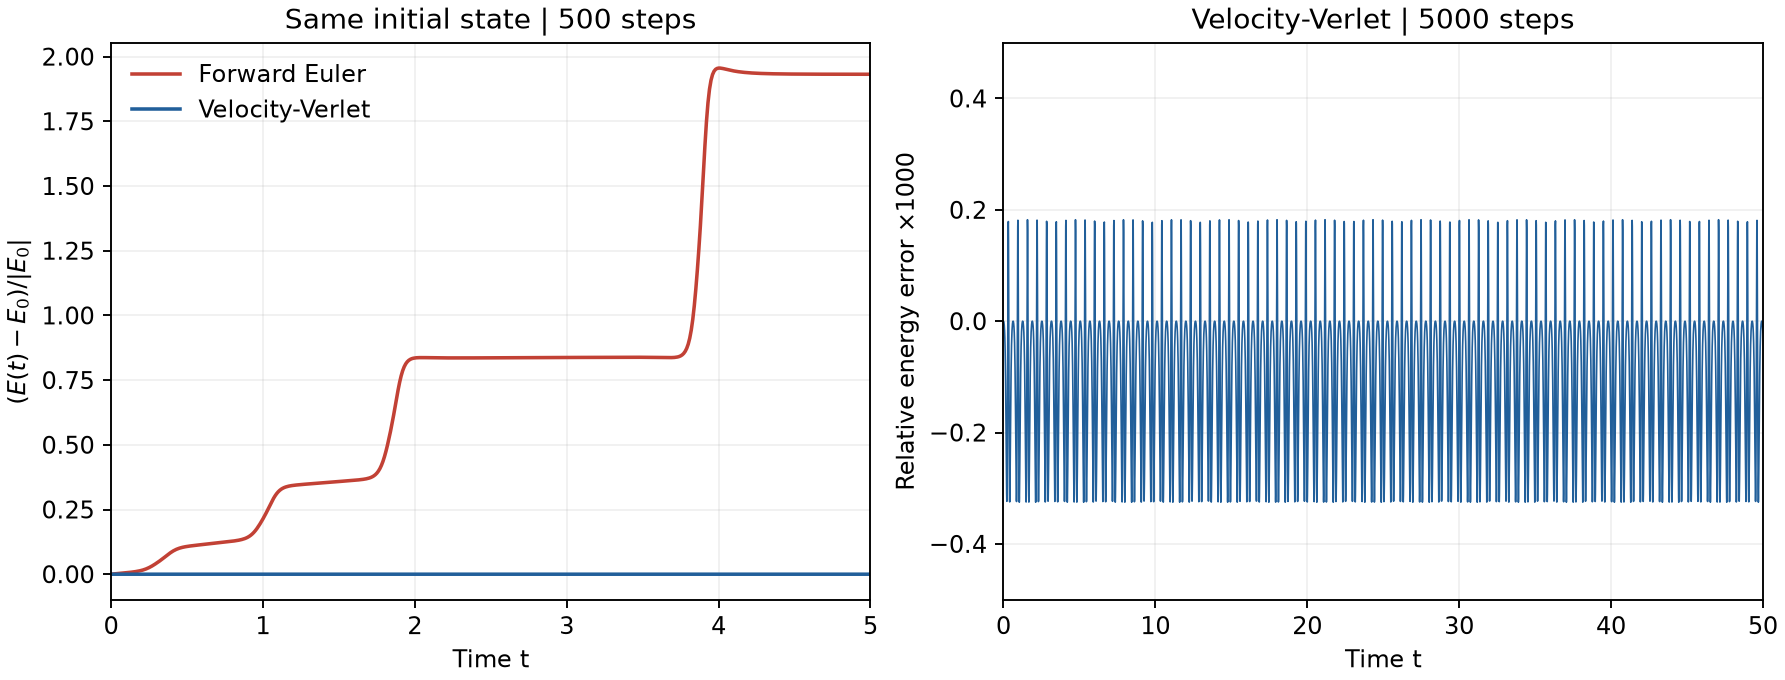
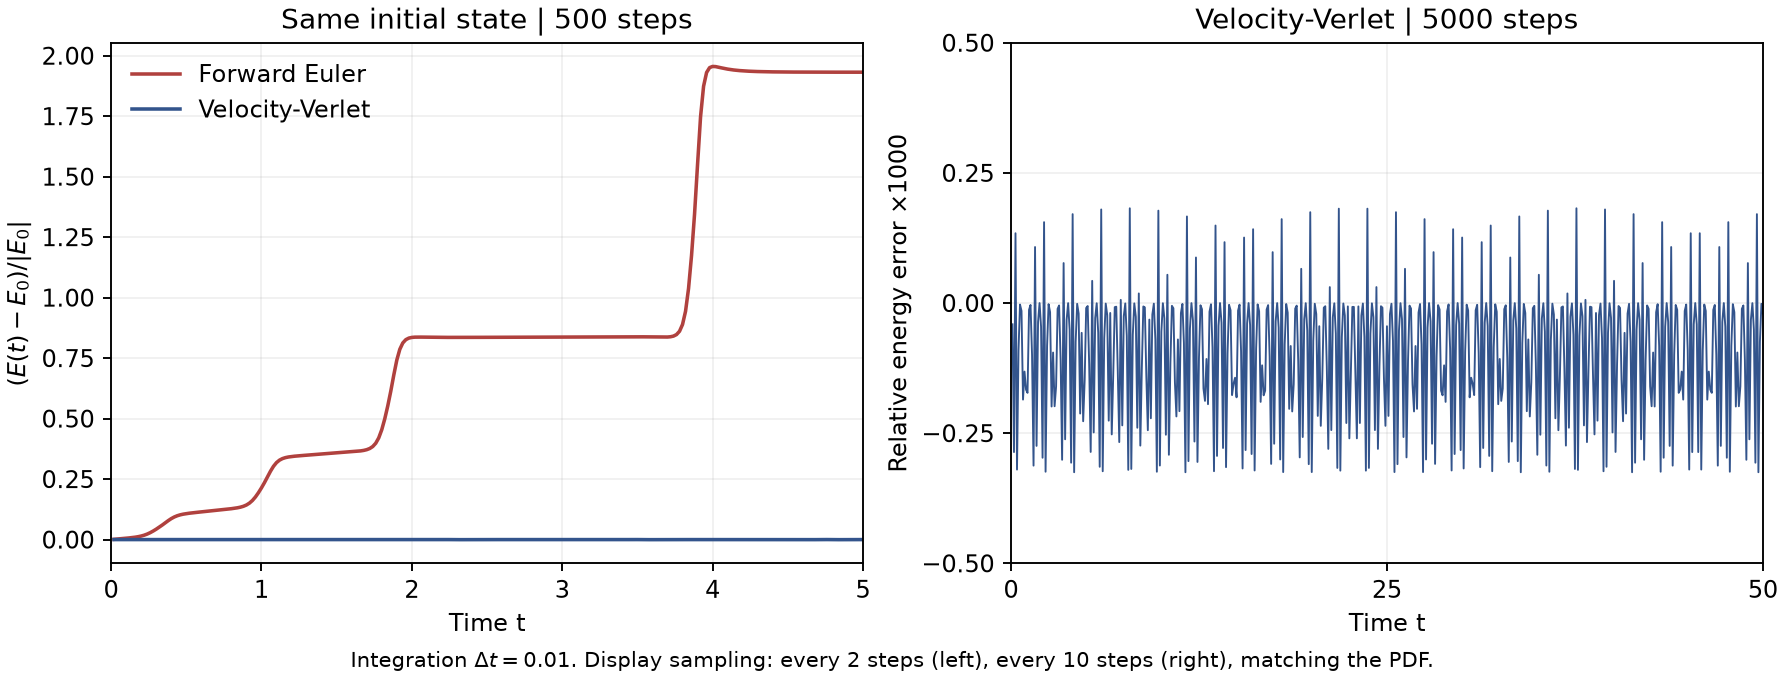
fix(week2): match PDF dimer display sampling and retain full-resolution evidence

diff --git a/week2/scripts/plot_dimer.py b/week2/scripts/plot_dimer.py
@@ -1,4 +1,10 @@
-"""Plot energy errors measured by the two Rust integrators."""
+"""Plot Rust dimer energy errors with the learning sheet's display sampling.
+
+The CSV retains every dt=0.01 integration step. PDF page 8's vector paths
+contain 250 left-panel points (steps 2,4,...,500) and 500 right-panel points
+(steps 10,20,...,5000). Plotting every step creates a visibly denser waveform;
+it does not change the underlying trajectory or conservation diagnostic.
+"""
 import argparse
 import numpy as np
 import matplotlib
@@ -8,17 +14,26 @@ import matplotlib.pyplot as plt
 parser = argparse.ArgumentParser()
 parser.add_argument("csv")
 parser.add_argument("--out", default="dimer.png")
+parser.add_argument("--full-resolution", action="store_true",
+                    help="draw every saved step instead of matching PDF display sampling")
 args = parser.parse_args()
 d = np.genfromtxt(args.csv, delimiter=",", names=True)
 fig, (left, right) = plt.subplots(1, 2, figsize=(10.5, 4), layout="constrained")
-short = d["time"] <= 5
-left.plot(d["time"][short], d["euler"][short], label="Forward Euler", color="#c24135")
-left.plot(d["time"][short], d["verlet"][short], label="Velocity-Verlet", color="#215f9a")
+short = d[d["time"] <= 5]
+long = d
+if not args.full_resolution:
+    short = short[2::2]
+    long = long[10::10]
+left.plot(short["time"], short["euler"], label="Forward Euler", color="#b0413e")
+left.plot(short["time"], short["verlet"], label="Velocity-Verlet", color="#33548c")
 left.set(xlabel="Time t", ylabel=r"$(E(t)-E_0)/|E_0|$", title="Same initial state | 500 steps", xlim=(0, 5))
 left.legend(frameon=False)
-right.plot(d["time"], 1000*d["verlet"], color="#215f9a", linewidth=0.7)
+right.plot(long["time"], 1000*long["verlet"], color="#33548c", linewidth=0.8)
 right.set(xlabel="Time t", ylabel=r"Relative energy error $\times 1000$",
-          title="Velocity-Verlet | 5000 steps", xlim=(0, 50), ylim=(-0.5, 0.5))
+          title="Velocity-Verlet | 5000 steps", xlim=(0, 50), ylim=(-0.5, 0.5),
+          xticks=[0,25,50], yticks=[-0.5,-0.25,0,0.25,0.5])
 for ax in (left, right):
     ax.grid(alpha=0.18)
+sampling = "Every integration step shown" if args.full_resolution else "Display sampling: every 2 steps (left), every 10 steps (right), matching the PDF"
+fig.supxlabel(r"Integration $\Delta t=0.01$. " + sampling + ".", fontsize=9)
 fig.savefig(args.out, dpi=170)

diff --git a/week2/scripts/compare_dimer_pdf.py b/week2/scripts/compare_dimer_pdf.py
@@ -1,0 +1,50 @@
+"""Optional diagnostic: compare Rust CSV with page 8's PDF vector curve.
+
+Requires PyMuPDF. This extracts vector coordinates, not pixels. The axis
+calibration is specific to the supplied 20-page Week 2 learning sheet.
+No reference values enter the Rust solver or the displayed Rust curve.
+"""
+import argparse
+import csv
+import json
+import math
+import fitz
+
+parser = argparse.ArgumentParser()
+parser.add_argument("pdf")
+parser.add_argument("csv")
+args = parser.parse_args()
+page = fitz.open(args.pdf)[7]
+candidates = [d for d in page.get_drawings()
+              if len(d["items"]) == 499 and d["rect"].x0 > page.rect.width/2]
+if len(candidates) != 1:
+    raise SystemExit("Expected one 500-point right-panel path on PDF page 8")
+items = candidates[0]["items"]
+points = [items[0][1]] + [item[2] for item in items]
+with open(args.csv, newline="") as file:
+    rows = list(csv.DictReader(file))
+sampled = rows[10::10]
+assert len(sampled) == len(points) == 500
+# Read directly from the PDF axes: t=0 and 50; error*1000=0, +0.5, -0.5.
+x_zero, x_fifty = 346.6777038574219, 502.58319091796875
+y_zero, y_top, y_bottom = 444.0219421386719, 387.8959655761719, 500.14794921875
+reference_t = [(p.x-x_zero)/(x_fifty-x_zero)*50 for p in points]
+reference_e = [(y_zero-p.y)/(y_bottom-y_top)*1e-3 for p in points]
+errors = [abs(float(row["verlet"])-e) for row,e in zip(sampled,reference_e)]
+time_errors = [abs(float(row["time"])-t) for row,t in zip(sampled,reference_t)]
+all_errors = [float(row["verlet"]) for row in rows]
+result = {
+    "pdf_page": 8,
+    "pdf_right_panel_points": len(points),
+    "integration_dt": 0.01,
+    "display_stride_steps": 10,
+    "max_pdf_time_reconstruction_error": max(time_errors),
+    "max_relative_energy_difference_from_pdf": max(errors),
+    "rms_relative_energy_difference_from_pdf": math.sqrt(sum(e*e for e in errors)/len(errors)),
+    "full_series_min_relative_error": min(all_errors),
+    "full_series_max_relative_error": max(all_errors),
+    "full_series_max_absolute_relative_error": max(map(abs,all_errors)),
+}
+print(json.dumps(result,indent=2))
+assert max(errors)<1e-8, "Rust curve differs from PDF beyond vector-coordinate precision"
+assert max(time_errors)<1e-4

diff --git a/docs/superpowers/plans/2026-09-09-week2-md.md b/docs/superpowers/plans/2026-09-09-week2-md.md
@@ -37,4 +37,6 @@ Starting commit: c1a7745bec92028a6643607587665f6f20457a18 on main, clean and mat
 - Approved designs/skills committed at 609978d. Part 3 red committed at 4b759ce; subsequent development tests passed, Euler final=1.9317762831, Verlet max(500)=0.00032504759, max(5000)=0.00032504920. Dimer figure generated and inspected.
 - Next: Part 4 tests first, followed by fluid CLI implementation. The student has not yet supplied grey-box verification or baseline/profile measurements.
 - Student requested revising Part 2 arrows while preserving later progress. Part 3 is committed at dd7942a. Part 4 configuration, API scaffolds and tests are present but not implemented or claimed green; dependencies have been fetched. The figure revision changes only the field exporter, plotting script, field.png and explanatory documentation; all Part 4 files are retained.
+- Part 2 normalized-arrow revision committed and pushed at 7c836a3. Part 4's seven expected failing tests and CLI scaffolds are committed at aeabce1 (not yet pushed); implementation remains pending.
+- Student then requested investigating Part 3's visual mismatch. Extracted PDF page 8 vector paths: left curves have 250 points, right curve 500. Rust values sampled at steps 2,4,...,500 and 10,20,...,5000 match the reference within PDF coordinate precision. The cause is plot sampling, not integration. Adjust only display sampling, preserve full data, record the numerical comparison and a full-resolution supplementary plot, then resume Part 4.
 - No student verification, performance measurement, public page, or recording is claimed complete.

diff --git a/week2/README.md b/week2/README.md
@@ -57,6 +57,10 @@ cargo run --manifest-path md/Cargo.toml --example dimer > dimer.csv
 
 ![Dimer integrator comparison](dimer.png)
 
+The plot matches the PDF's display sampling: every 2 integration steps in the left panel and every 10 in the right. All 5000 integration steps remain in the CSV and conservation tests. Connecting every step makes the dense periodic waveform look different from the PDF's coarser, aliased display; it is the same trajectory. An optional full-resolution view is reproducible with `scripts/plot_dimer.py dimer.csv --full-resolution --out evidence/dimer-full-resolution.png` using the environment's Python.
+
+The PDF comparison is documented in `evidence/dimer-pdf-comparison.json`. Its right-hand vector path contains 500 points; converting those points back using the printed axes and comparing with the Rust CSV at steps 10,20,...,5000 gives agreement at approximately 1e-9 in relative energy. The caption's “within +/-3e-4” is approximate: the actual full-series bound is 3.2505e-4, while the sheet's required test threshold is 1e-3. No energies were clipped or rescaled to force the caption's rounded number.
+
 The test and example both route through `advance(&impl Integrator, ...)`, with no integrator-specific experimental setup. Raw development test output is in `evidence/part3-green.txt`. Student verification remains separate.
 
 ## Design and workflow
